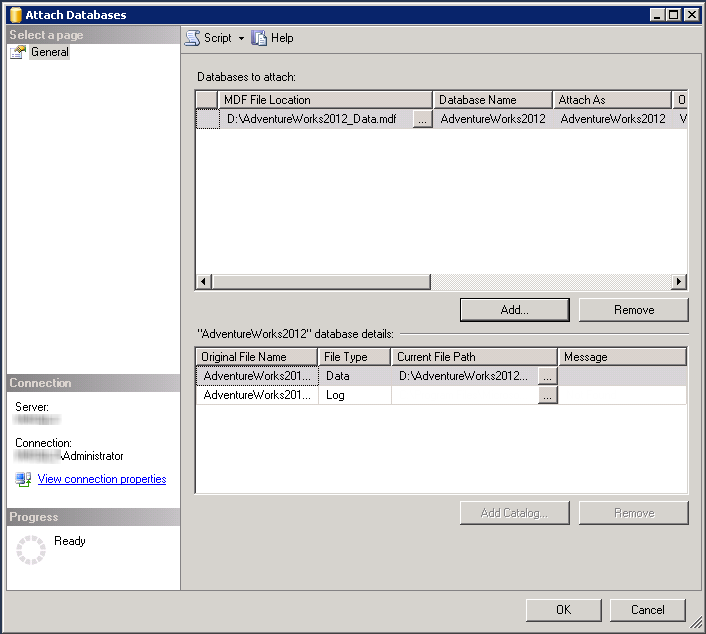
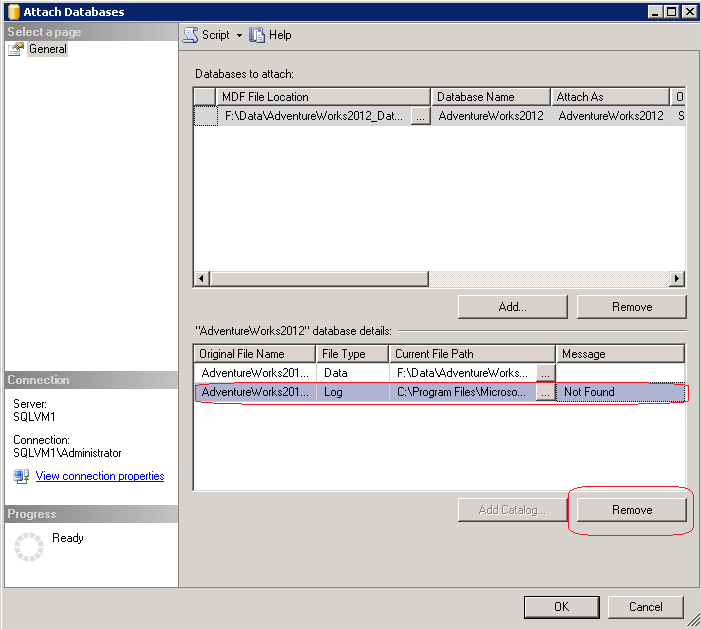
Minor updates.

Changed region(s): [[0.0, 0.0, 1.0, 1.0], [0.2397, 0.7854, 0.2696, 0.8458]]

diff --git a/HOL.md b/HOL.md
@@ -131,10 +131,26 @@ In this task, you will create a new Virtual Machine using the Windows Azure Port
 
 	> **Note:** It will take from 8 to 10 minutes for the Virtual Machine to complete the provisioning process.
 
+1. Now, you will create and attach empty data disks to store the SQL Server logs and data files, and you will also add an endpoint. To do this, in the **Virtual Machines** section, select the SQL Server VM you created in this task.
+
+1. In the VM's **Dashboard**, click **Attach** in the menu at the bottom of the page and select **Attach Empty Disk**.
+
+	![Attach Empty Disk](images/attach-empty-disk.png?raw=true "Attach Empty Disk")
+
+	_Attach Empty Disk_
+
+1. In the **Attach Empty Disk** page, set the **Size** to _50_ GB and create the Disk.
+
+1. Wait until the process to attach the disk finishes. Repeat the steps 8 to 10 to create a second disk.
+
+1. You will see three disks for the VM: one for the **OS** and other two for **Data** and **Logs**.
+
+	> **Note:** It might take a few minutes until the data disks appear in the VM's dashboard within the Azure Portal.
+
 <a name="Ex1Task2" />
 #### Task 2 - Configuring SQL Server 2012 Instance ####
 
-In this task, you will install an SQL Server and configure it to enable remote access.
+In this task, you will set up SQL Server and configure it to enable remote access.
 
 1. In the Windows Azure Management Portal, click **Virtual Machines** on the left menu.
 
@@ -143,6 +159,34 @@ In this task, you will install an SQL Server and configure it to enable remote a
 	_Windows Azure Portal_
 
 1. Select your VM from the Virtual Machines list and click **Connect** to connect using **Remote Desktop Connection**.
+
+1. In the Virtual Machine, open **Server Manager** from **Start | All Programs | Administrative Tools**.
+
+1. Expand **Storage** node and select **Disk Management** option.
+
+ 	![Disk Management(2)](images/disk-management2.png?raw=true)
+ 
+	_Disks Management_
+
+1. Locate the disks you created using the **Attach Empty Disk** feature from the Windows Azure Management Portal. Right-click the first disk and select **Initialize Disk**.
+
+1. In the **Initialize Disk** dialog, leave the default values and click **OK**.
+
+1. Right-click the first disk unallocated space and select **New Simple Volume**.
+
+ 	![Disk Management](images/disk-management.png?raw=true)
+ 
+	_Disks Management_
+
+1. Follow the **New Simple Volume Wizard**. When asked for the **Volume Label** use _SQLData_.
+
+1. Wait until the process for the first disk is completed. Repeat the steps 15 to 16 but this time using the second disk. Set the **Volume Label** to _SQLLogs_.
+
+1. The **Disk Management** list of available disks should now show the **SQLData** and **SQLLogs** disks like in the following figure:
+
+ 	![Disks Management](./images/Disks-Management.png?raw=true "Disks Management")
+ 
+	_Disks Management_
 
 1. Open **SQL Server Configuration Manager** from **Start | All Programs | Microsoft SQL Server 2012 | Configuration Tools**.
 
@@ -175,7 +219,23 @@ In this task, you will add the **AdventureWorks** database that will be used by 
 
 	>**Note:** Modifying Internet Explorer Enhanced Security configurations is not good practice and is only for the purpose of this particular lab. The correct approach should be to download the files locally and then copy them to a shared folder or directly to the VM.
 
-1. This lab uses the **AdventureWorks** database. Open an **Internet Explorer** browser and go to <http://msftdbprodsamples.codeplex.com/> to download  the **SQL Server 2012** sample databases.
+1. Open the SQL Server Management Studio from **Start | All Programs | Microsoft SQL Server 2012 | SQL Server Management Studio**.
+
+1. Connect to the SQL Server 2012 default instance using your Windows Account.
+
+1. Now, you will update the database's default locations in order to split the DATA from the LOGS. To do this, right click on you SQL Server instance and select **Properties**.
+
+1. Select **Database Settings** from the left side pane.
+
+1. Locate the **Database default locations** section and update the default values to point to the disks you attached in the previous task.
+
+ 	![Setting Database Default Locations](./images/Setting-Database-Default-Locations.png?raw=true "Setting Database Default Locations")
+ 
+	_Setting Database Default Locations_
+
+1. Using Windows Explorer create the following folders: **F:\Data, G:\Logs** and **G:\Backups**.
+
+1. This lab uses the **AdventureWorks** database. Open an **Internet Explorer** browser and go to <http://msftdbprodsamples.codeplex.com/> to download  the **SQL Server 2012** sample databases. Once on the page click SQL Server 2012 DW and then download Adventure Works 2012 Data File. Download the file to F:\Data.
 
 1. Right click the database file and open the properties. Click **unblock**.
 
@@ -187,7 +247,7 @@ In this task, you will add the **AdventureWorks** database that will be used by 
  
 	_Object Explorer - Attaching Adventureworks Database_
 
-1. In the **Attach Databases** dialog, press **Add**. Browse to the path where the Sample Databases were installed and select **AdventureWorks** data file.  Click **OK**.
+1. In the **Attach Databases** dialog, press **Add**. Browse to the data disk and select the Adventure Works data file.
 
 1. Now, select the AdventureWorks Log's row within **database details** and click **Remove**.
 
@@ -211,13 +271,13 @@ In this task, you will add the **AdventureWorks** database that will be used by 
  
 	_Full-Text Catalog Name_
 
-1. Right-click the **AdventureWorksCatalog** and select **Properties**. Select the **Tables/Views** menu item. Add the **Products** table to the **Table/View objects assigned to the Catalog** list. Check _Name_ from **eligible columns** and click **OK**.
+1. Right-click the **AdventureWorksCatalog** and select **Properties**. Select the **Tables/Views** menu item. Add the **Production.Product** table to the **Table/View objects assigned to the Catalog** list. Check _Name_ from **eligible columns** and click **OK**.
 
 	![Full-Text Catalog Properties](images/full-text-catalog-properties.png?raw=true "Full-Text Catalog Properties")
  
 	_Full-Text Catalog Properties_
 
-1. Eenable **Mixed Mode Authentication** to the SQL Server instance. To do this, in the **SQL Server Management Studio**, right-click the server instance and click **Properties**.
+1. Enable **Mixed Mode Authentication** to the SQL Server instance. To do this, in the **SQL Server Management Studio**, right-click the server instance and click **Properties**.
 
 1. Select the **Security** page in the right side pane and then select **SQL Server and Windows Authentication mode** under **Server Authentication** section. Click **OK** to save changes.
 
@@ -251,7 +311,7 @@ In this task, you will add the **AdventureWorks** database that will be used by 
 
 1. Expand **AdventureWorks** database within **Databases** folder. In the **Security** folder, expand **Users** and double-click **AzureStore** user.
 
-1. Update the **Database role membership**. Select the **Membership** page and check the _db_owner_ role for the **AzureStore** user and click **OK**.
+1. Select the **Membership** page, and select the _db_owner_ role checkbox for the **AzureStore** user and click **OK**.
 
  	![Adding Database role membership to AzureStore user](./images/Adding-Database-role-membership-to-AzureStore-user.png?raw=true "Adding Database role membership to AzureStore user")
  
@@ -263,7 +323,7 @@ In this task, you will add the **AdventureWorks** database that will be used by 
 
 1. In order to allow the MVC4 application access the SQL Server database you will need to add an **Inbound Rule** for the SQL Server requests in the **Windows Firewall**. To do this, open **Windows Firewall with Advance Security** from **Start | All Programs | Administrative Tools**.
 
-1. Right-click **Inbound Rules** node and select **New Rule**.
+1. Select **Inbound Rules** node, right-click it and select **New Rule**.
 
  	![Creating an Inbound Rule](./images/Creating-an-Inbound-Rule.png?raw=true "Creating an Inbound Rule")
  
@@ -334,7 +394,7 @@ In this task, you will change the connection string to point to the SQL Server i
 	````XML
 	<connectionStrings>
 		<add name="DefaultConnection" connectionString="Data Source=[ENTER-IP-ADDRESS];initial catalog=AdventureWorksLT2008R2;Uid=AzureStore;Password=Azure$123;MultipleActiveResultSets=True" providerName="System.Data.SqlClient" />
-		<add name="AdventureWorksEntities" connectionString="metadata=res://*/Models.AdventureWorks.csdl|res://*/Models.AdventureWorks.ssdl|res://*/Models.AdventureWorks.msl;provider=System.Data.SqlClient;provider connection string=&quot;data source=192.168.2.4;initial catalog=AdventureWorksLT2008R2;Uid=AzureStore;Password=Azure$123;multipleactiveresultsets=True;App=EntityFramework&quot;" providerName="System.Data.EntityClient" />
+		<add name="AdventureWorksEntities" connectionString="metadata=res://*/Models.AdventureWorks.csdl|res://*/Models.AdventureWorks.ssdl|res://*/Models.AdventureWorks.msl;provider=System.Data.SqlClient;provider connection string=&quot;data source=[ENTER-IP-ADDRESS];initial catalog=AdventureWorksLT2008R2;Uid=AzureStore;Password=Azure$123;multipleactiveresultsets=True;App=EntityFramework&quot;" providerName="System.Data.EntityClient" />
 	</connectionStrings>
 	````
 
